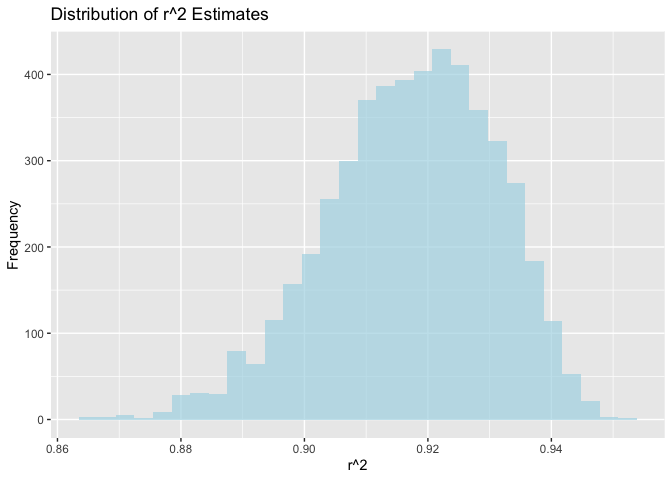
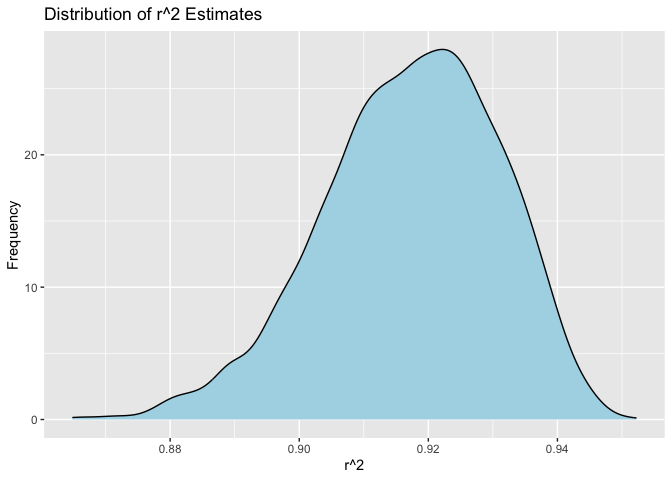
Update on q2

diff --git a/p8105_hw6_sw3737.md b/p8105_hw6_sw3737.md
@@ -38,13 +38,14 @@ bootstrap_fn = function(data) {
   tidy_model = broom::tidy(model)
   glance_model = broom::glance(model)
   
-  beta1_beta2 = tidy_model$estimate[2] * tidy_model$estimate[3]
+  estimates = pull(tidy_model, "estimate")
+  beta1_beta2 = estimates[2] * estimates[3]
   if (beta1_beta2 > 0) {
     log_beta1_beta2 = log(beta1_beta2)
   } else {
     log_beta1_beta2 = NA
   }
-  r_squared = glance_model$r.squared
+  r_squared = pull(glance_model, "r.squared")
   
   return(c(r_squared, log_beta1_beta2))
 }
@@ -64,7 +65,7 @@ names(bootstrap_df) = c("r_squared", "log_beta1_beta2")
 
 ``` r
 ggplot(bootstrap_df, aes(x = r_squared)) +
-  geom_histogram(bins = 30, fill = "lightblue", alpha = 0.7) +
+  geom_density(fill = "lightblue") +
   labs(title = "Distribution of r^2 Estimates", x = "r^2", y = "Frequency")
 ```
 
@@ -72,11 +73,11 @@ ggplot(bootstrap_df, aes(x = r_squared)) +
 
 ``` r
 ggplot(bootstrap_df, aes(x = log_beta1_beta2)) +
-  geom_histogram(bins = 30, fill = "pink", alpha = 0.7) +
+  geom_density(fill = "pink") +
   labs(title = "Distribution of log(beta1 * beta2) Estimates", x = "log(beta1 * beta2)", y = "Frequency")
 ```
 
-    ## Warning: Removed 3363 rows containing non-finite values (`stat_bin()`).
+    ## Warning: Removed 3363 rows containing non-finite values (`stat_density()`).
 
 ![](p8105_hw6_sw3737_files/figure-gfm/unnamed-chunk-4-2.png)<!-- -->
 
@@ -94,8 +95,8 @@ coefficients.
 ## Calculate and print the 95% confidence intervals
 
 ``` r
-r_squared_ci = quantile(bootstrap_df$r_squared, c(0.025, 0.975), na.rm = TRUE)
-log_beta1_beta2_ci = quantile(bootstrap_df$log_beta1_beta2, c(0.025, 0.975), na.rm = TRUE)
+r_squared_ci = quantile(pull(bootstrap_df, "r_squared"), c(0.025, 0.975), na.rm = TRUE)
+log_beta1_beta2_ci = quantile(pull(bootstrap_df, "log_beta1_beta2"), c(0.025, 0.975), na.rm = TRUE)
 
 print(paste("95% CI for r^2: Lower Bound = ", r_squared_ci[1], ", Upper Bound = ", r_squared_ci[2]))
 ```
@@ -108,7 +109,13 @@ print(paste("95% CI for log(beta1 * beta2): Lower Bound = ", log_beta1_beta2_ci[
 
     ## [1] "95% CI for log(beta1 * beta2): Lower Bound =  -9.0632139063287 , Upper Bound =  -4.61926736850544"
 
-# problem 3
+95% CI for r^2: Lower Bound = 0.888207887270769 , Upper Bound =
+0.94025517661439
+
+95% CI for log(beta1 \* beta2): Lower Bound = -9.0632139063287 , Upper
+Bound = -4.61926736850544
+
+# Problem 3
 
 ## Load and Clean the Data
 
